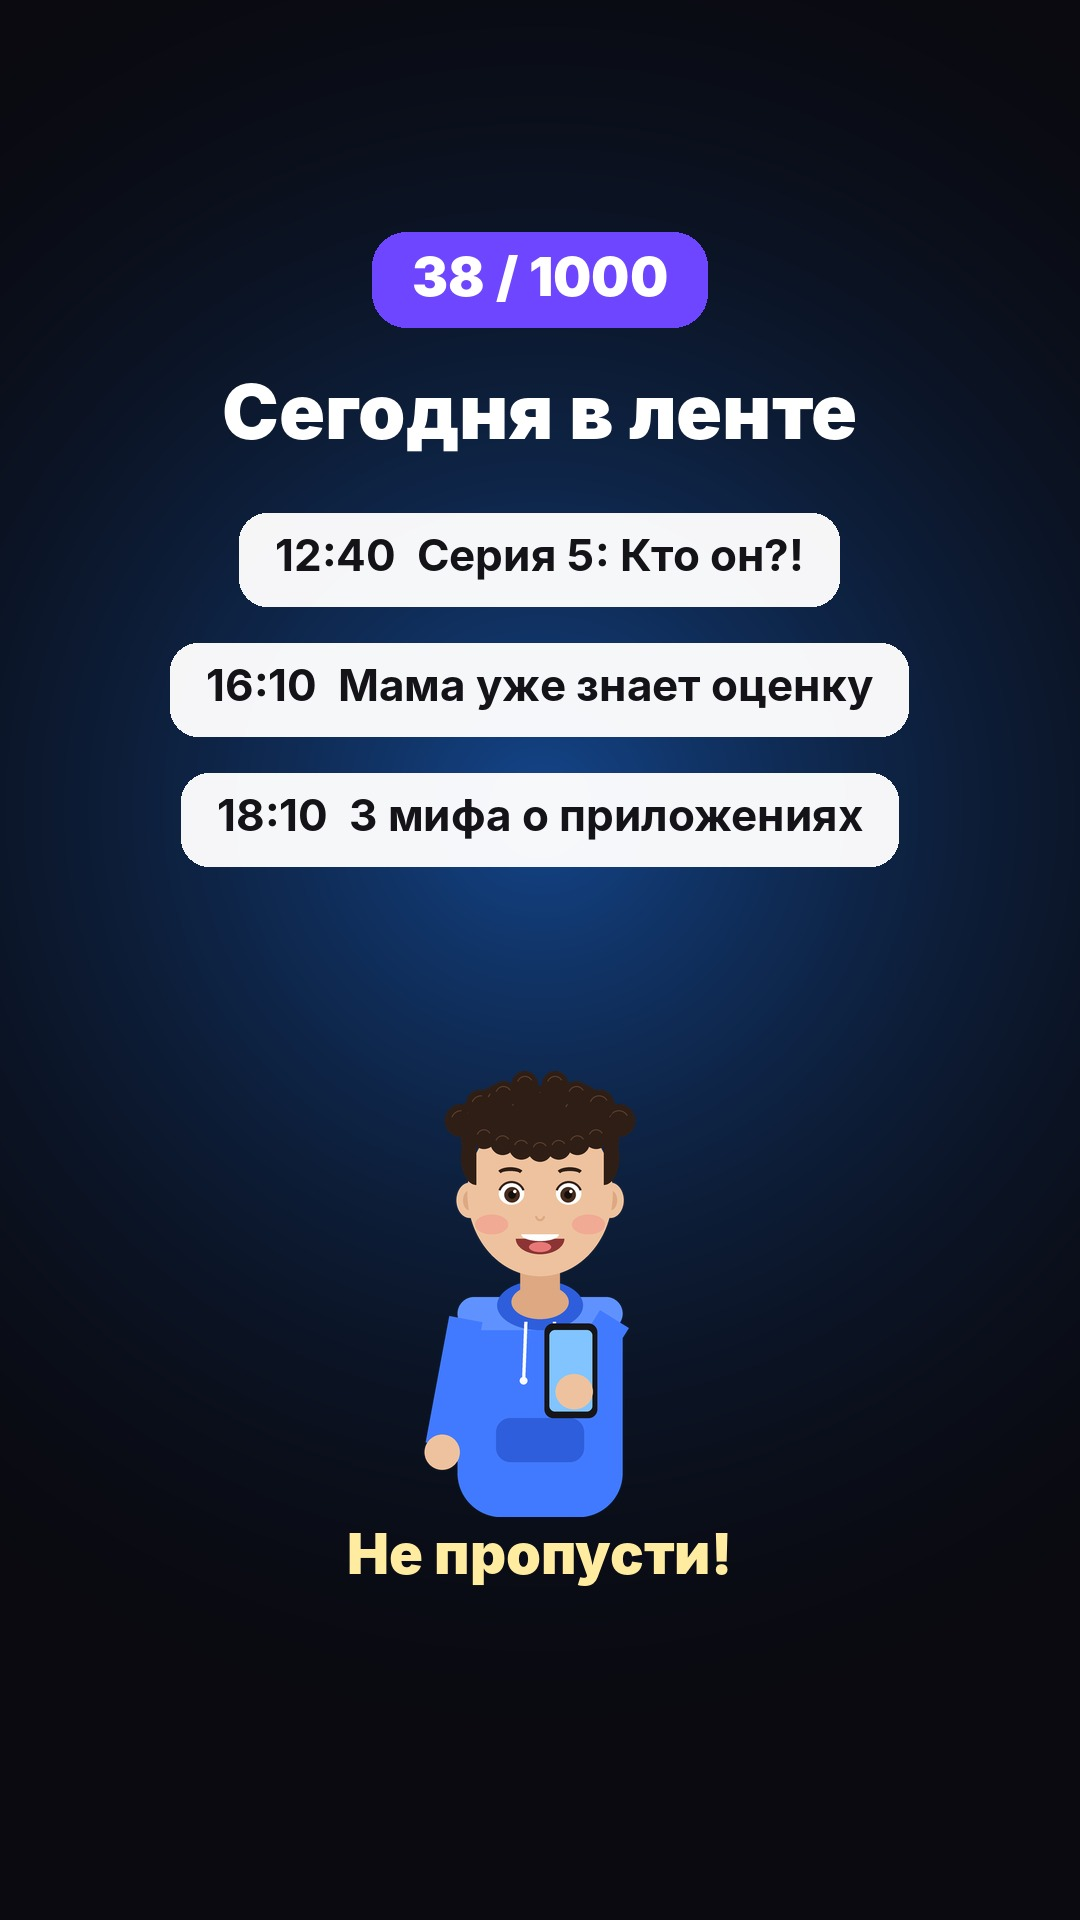
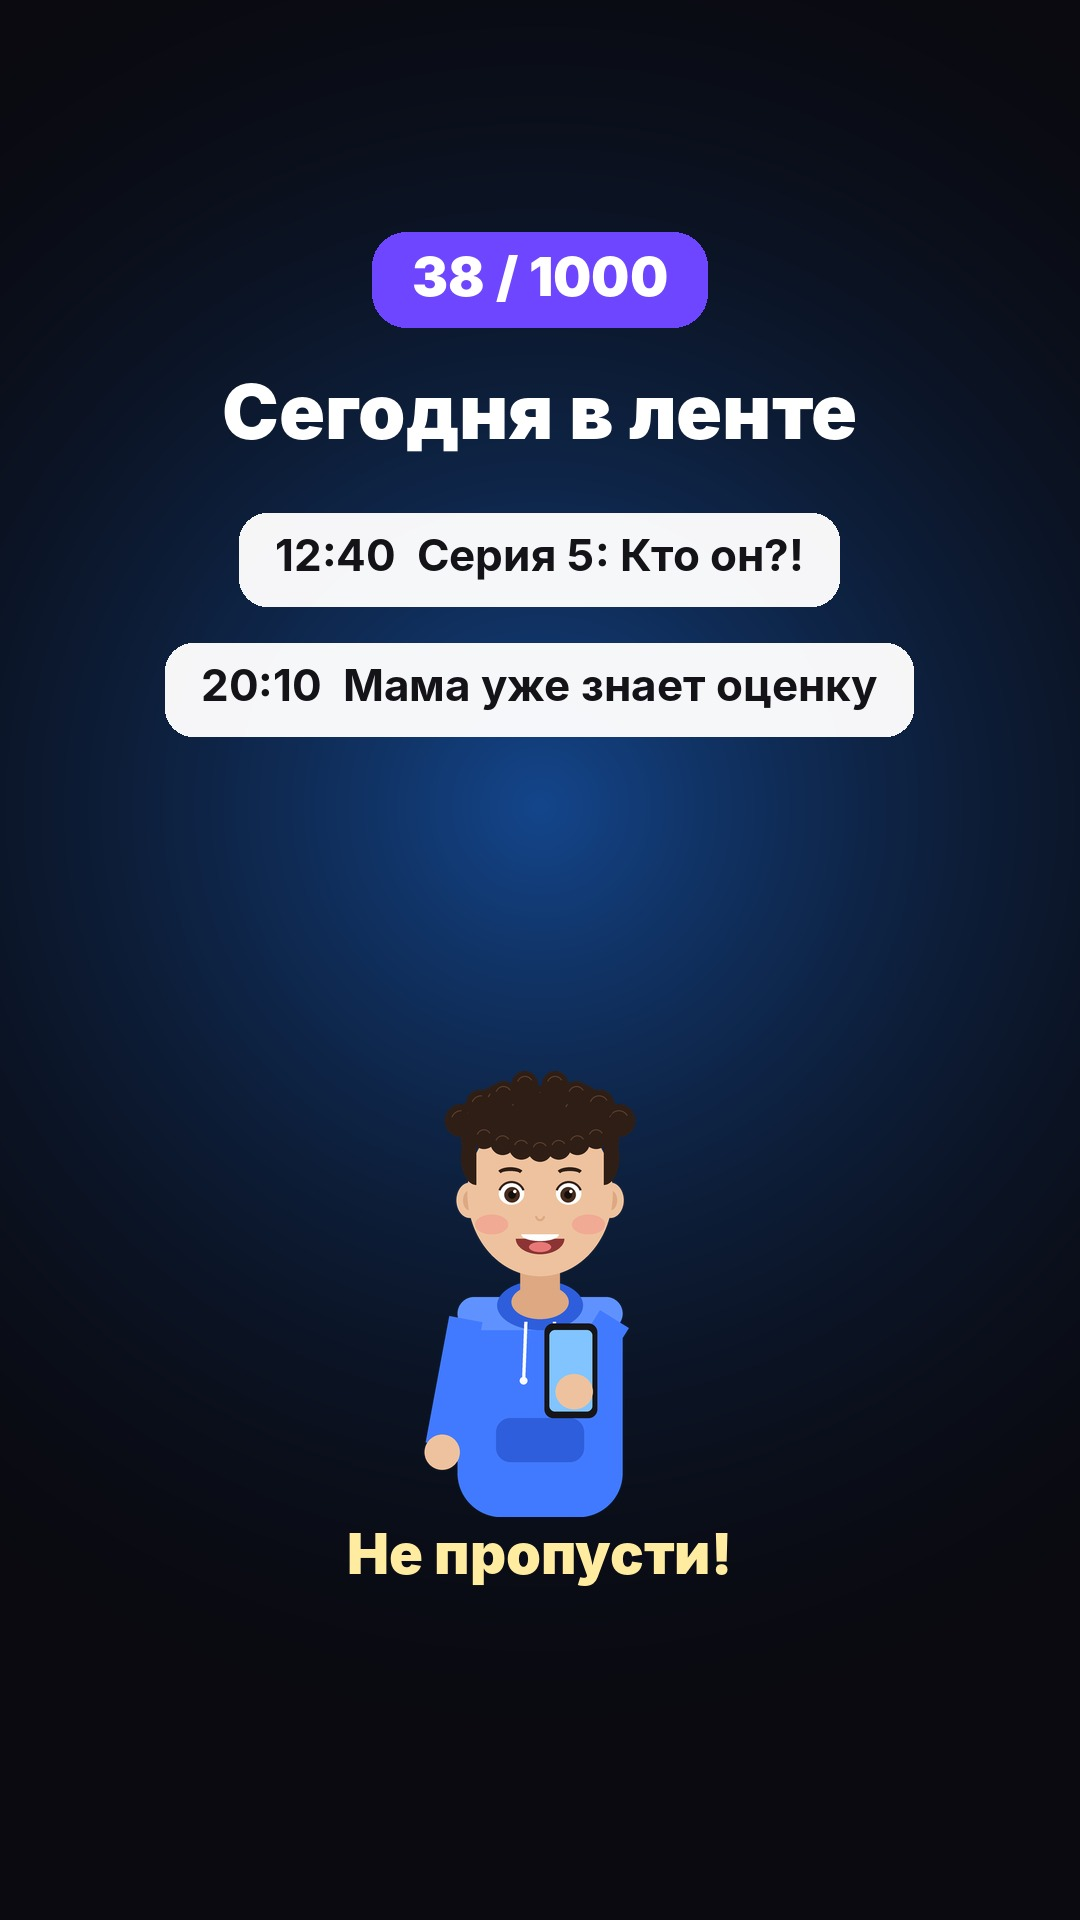
24.11: режим роста — 2 рилса (12:40 + 20:10), ru+uz подписи, r3 в hold, анонс перерисован

Changed region(s): [[0.1528, 0.3438, 0.8556, 0.4688]]

diff --git a/SERIES.md b/SERIES.md
@@ -1,5 +1,20 @@
 # Журнал контента @exclusive_apps.uz
 
+## 🔥 РЕЖИМ РОСТА С 24.11 (Озодбек: «просмотров мало, исправь, делай что хочешь») — ГЛАВНЕЕ всего ниже
+Разбор Windsor 24.11 (просмотры / охват / пролист. % / поделились): My Week 18.11 (20:19) 1432/1105/78%/52 · My Capital 19.11 442/234/69%/54 · Плов 20.11 321/206/60%/1 · дальше ВСЕ рилсы 10–40 просмотров, охват 6–18, пересылок 0. Аккаунт: охват/день 901 (18.11) → 53–72 (21–23.11); не-подписчики 470 → 61.
+Причины: 1) охват держался на пересылках (52–54 у первых двух), с 20.11 их 0 → алгоритм не даёт показы новым людям; 2) 3 рилса/день при 38 подписчиках делят и без того малый тестовый показ, слабые сигналы у каждого; 3) пролистывают 60–80% в первые 3 с; 4) только русский язык — большая часть Ташкента смотрит на узбекском; 5) «нас 38, цель 1000» в подписях — сигнал маленького аккаунта, повод не даёт.
+Новые правила (вместо пп. 5–6 ниже):
+1. 2 РИЛСА В ДЕНЬ: r1 12:40 — сериал (до 30.11), r2 20:10 — ГЛАВНЫЙ: витрина приложения или узнаваемая ситуация с поводом переслать (как My Week 18.11, вышел в 20:19). r3 больше не делаем — силы на качество двух.
+2. trial: всегда false (Trial Reels недоступны аккаунту: мало подписчиков).
+3. ДВА ЯЗЫКА: подпись — крючок по-русски + следующей строкой он же по-узбекски (латиница), короткий текст ru + 1 строка uz, призыв «Ilova kerakmi? TZ yuboring — qilib beramiz.» Хэштеги смешанные: #toshkent #maktab/#biznes/#ilova + русские, всего ≤5. Субтитры на экране — по-русски (озвучка русская); тест полностью узбекского рилса — когда будет узбекский голос.
+4. НЕ писать «нас N, цель 1000 / ты будешь N+1-м» в подписях и в рилсах. Счётчик — только в одной истории в день.
+5. Крючок в 1-ю секунду: лицо героя крупно + 3–6 слов текста + движение. Никаких логотипов/заставок в начале.
+6. Каждый r2 — для конкретной большой аудитории Ташкента, которая перешлёт: школьники и родители (My School), студенты, владельцы малого бизнеса, «вечно всё забывает» (My Week), деньги/семейный бюджет (My Capital). Призыв «Отправь другу, который…» — обязателен.
+7. Истории: 09:30 анонс (только 2 рилса!) + счётчик · 16:10 вопрос · 17:10 тизер · 18:10 портфолио · 20:10 «Новый рилс» (после r2) · 21:30 как заказать.
+8. Неделя-тест 24.11–30.11: сравнить средние просмотры/охват/пересылки рилса с 21–23.11 (≈25 просмотров) и записать вывод сюда.
+ГЛАВНОЕ, что делает Озодбек (без этого не взлетит): в первые 30–60 мин после рилса 20:10 переслать его в 5–10 чатов (класс, друзья, семья, Telegram-группы) и в свою личную историю; попросить 3–5 друзей переслать дальше. Именно так 18–19.11 получилось 52–54 пересылки и 400–1400 просмотров.
+- Готовый рилс «3 мифа» (queue/hold/2026-11-24_r3_myths.json, reels/2026-11-24_myths3.mp4) — поставить как r2 на 25.11 или 26.11 вместо нового, не тратить кредиты.
+
 ## ⚠ РОСТ ОХВАТА — ГЛАВНЫЕ ПРАВИЛА С 23.11 (Озодбек: «просмотров мало, исправлять»)
 Разбор Metricool 22.11 (просмотры / охват / ср. просмотр с / пролист. % / ПОДЕЛИЛИСЬ):
 My Week 18.11: 1428 / 1103 / 5.2 / 77.6 / 52 · My Capital 19.11: 398 / 198 / 10.6 / 66.3 / 54 · Плов 20.11: 312 / 203 / 10.8 / 60.5 / 1 · Эп.1: 188 / 11.7 / 2 · Эп.2: 39 / 22.5 / 0 · POV ТЗ: 20 / 10.4 / 0 · Топ-3: 19→24 / 10.0 / 0.
@@ -35,7 +50,7 @@ My Week 18.11: 1428 / 1103 / 5.2 / 77.6 / 52 · My Capital 19.11: 398 / 198 / 10
 ## ПУБЛИКАЦИЯ ЧЕРЕЗ WINDSOR.AI (с 23.11, вместо Metricool — у Metricool кончился лимит)
 - Windsor.ai for Social Media, connector "instagram", account 17841454786485012 (exclusive_apps.uz). Действия: create_video_post (рилс, share_to_feed true; trial_params {graduation_strategy:"SS_PERFORMANCE"} = Trial Reel), create_story (image_url — ТОЛЬКО JPEG ≤8 МБ, или video_url MP4 3–60 с), create_comment, reply_to_comment, hide_comment. Публикует СРАЗУ (без отложки).
 - Поэтому: утренний запуск (08:23) только ДЕЛАЕТ контент и пишет очередь queue/ГГГГ-ММ-ДД.json; публикуют отдельные задачи-публикаторы в 09:30, 12:40, 16:10, 17:10, 18:10, 21:30 (публикуют всё из очереди со временем ≤ сейчас, которого нет в queue/ГГГГ-ММ-ДД.done.json).
-- Слоты: 09:30 истории (анонс рилсов + счётчик N/1000) · 12:40 рилс №1 (сериал) · 16:10 рилс №2 + история-вопрос · 17:10 видео-тизер серии + «Новый рилс» · 18:10 рилс №3 + портфолио · 21:30 история «как заказать + телефон», ответы на комментарии.
+- Слоты (с 24.11): 09:30 истории (анонс + счётчик) · 12:40 рилс №1 (сериал) · 16:10 история-вопрос · 17:10 видео-тизер · 18:10 портфолио · 20:10 рилс №2 (главный) + «Новый рилс» · 21:30 «как заказать», ответы на комментарии. Публикаторы: 09:30/21:30, 12:40, 16:10/17:10/18:10/20:10.
 - Формат очереди: {"date":"2026-11-23","items":[{"id":"r1","time":"12:40","kind":"reel","video_url":"https://raw.githubusercontent.com/ozodbekmirtemirov-ops/menu-dis/media/reels/…mp4","caption":"…","first_comment":"…","cover_url":"https://raw.githubusercontent.com/…/reels/…_cover.jpg","trial":false},{"id":"s1","time":"09:30","kind":"story","image_url":"…jpg"},{"id":"s5","time":"17:10","kind":"story","video_url":"…mp4"}]}
 - ОБЛОЖКА у КАЖДОГО рилса (Озодбек, 22.11): JPEG 1080x1920 рядом с видео (reels/<имя>_cover.jpg, образец tools/reel_covers.py: крупный крючок 2 строки + персонаж v2, всё важное в центре 3:4) → cover_url в create_video_post.
 - Удалять посты через Windsor нельзя (нет права instagram_manage_contents; нужно переподключить Instagram в Windsor через «Connect with Facebook»).
@@ -191,6 +206,7 @@ My Week 18.11: 1428 / 1103 / 5.2 / 77.6 / 52 · My Capital 19.11: 398 / 198 / 10
 | 23.11 | 12:40 | сериал (диалог, 25 с) | Эп.4 «Вызвали к директору»: My School для района + парень в приёмной |
 | 23.11 | 16:10 | витрина приложения (trial) | My Capital «Сколько у тебя денег?» |
 | 23.11 | 18:10 | звонок-счётчик №2 | 38/1000, «1 рилс → 1 друг» |
+- 24.11 08:40 (Озодбек онлайн): переход на РЕЖИМ РОСТА — r2 My School перенесён на 20:10, r3 «3 мифа» снят в queue/hold, подписи r1/r2 на ru+uz без «нас 38», история-анонс перерисована (2 рилса). Публикатор 16/17/18 теперь ещё и в 20:10.
 - 23.11 21:35 вечерний запуск: история s5 (как заказать) опубликована (media 17872114932663276). r2 (trial) и s6 по-прежнему НЕ опубликованы — trial reels недоступны (мало подписчиков), ждут решения Озодбека. Ответил на 4 комментария (эмодзи-реакции, вопросов про цену/сроки нет) за 21–23.11; данные Windsor из кэша (без обновления по запросу).
 | 24.11 | 12:40 | сериал (диалог, 27 с) | Эп.5 «Он скопировал моё приложение»: соперник, педсовет |
 | 24.11 | 16:10 | витрина приложения | My School «Мама уже знает твою оценку» |
